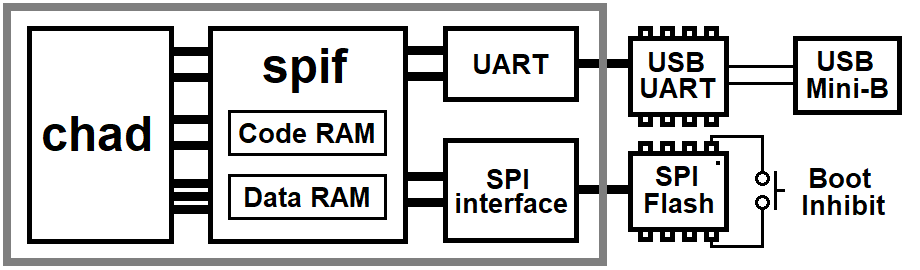
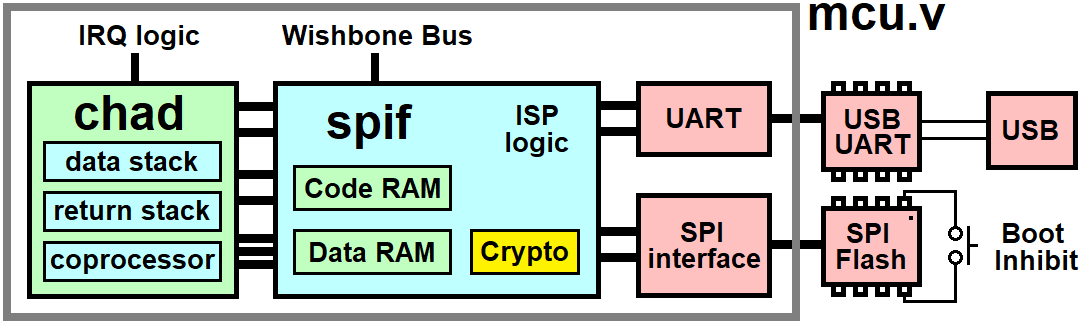
Tweaked docs

diff --git a/verilog/doc/spif.md b/verilog/doc/spif.md
@@ -42,7 +42,8 @@ Allows room for FPGA bitstream if used.
 
 ## Ports
 
-To keep the J1 naming conventions, the ports on the J1 side are:
+Let N be the cell size in bits, 16 to 32.
+To keep the J1 naming conventions, the ports on the processor side are:
 
 | Name     | Dir | Bits | Usage                           |
 |----------|:---:|-----:|---------------------------------|
@@ -51,9 +52,9 @@ To keep the J1 naming conventions, the ports on the J1 side are:
 | mem_addr | in  | 16   | Data memory address             |
 | mem_wr   | in  | 1    | Data memory write enable        |
 | mem_rd   | in  | 1    | Data memory read enable         |
-| din      | in  | 18   | Data memory (and I/O) in        |
-| mem_dout | out | 18   | Data memory out                 |
-| io_dout  | out | 18   | I/O data out                    |
+| din      | in  | N    | Data memory (and I/O) in        |
+| mem_dout | out | N    | Data memory out                 |
+| io_dout  | out | N    | I/O data out                    |
 | code_addr| in  | 16   | Code memory address             |
 | insn     | out | 16   | Code memory data                |
 | p_hold   | out | 1    | Processor hold                  |
@@ -200,6 +201,7 @@ since pages can be re-programmed in case of bad verification.
 
 A 'ping' command (0x42) sends 5 bytes out the UART:
 - BASEBLOCK, first 64KB sector of user flash
+- KEYID, identifies the boot code decryption key (0 = plaintext)
 - PRODUCT_ID0, product ID\[7:0]
 - PRODUCT_ID1, product ID\[15:8]
 - 0xAA, sanity check
@@ -212,10 +214,10 @@ Yup, numbers as free as air.
 If you want to reserve your PRODUCT_ID1 to avoid collision with other adopters
 of `chad`, add it to this list and do a pull request:
 
-### Reserved PRODUCT_ID1 values
+### Reserved PRODUCT_ID values
 
 - 0, Demonstration models for `chad`
-- 1 to 3, Reserved for Brad Eckert's commercial projects
+- 1 to 99, Reserved for Brad Eckert's commercial projects
 
 ## Boot Loader
 
@@ -270,7 +272,7 @@ Write:
 ### Jamming ISP bytes
 
 Bytes can be fed into the ISP interpreter by writing them to io\[4].
-This way of using the ISP lets you control the SPI flash directly to
+This way of using the ISP lets software control the SPI flash directly to
 execute flash commands. You can set up the DMA registers, start the command,
 and trigger a DMA memory load.
 
@@ -288,10 +290,10 @@ Since `cyc_o` is always the same as `stb_o`, it is not duplicated.
 
 ## Sample MCU
 
-The MCU in the `verilog` folder connects to SPI flash and a USB UART such as
-CH330N. A pushbutton can keep CS# high so the MCU bootloader sees a blank flash
-so that it doesn't try to boot up.
-The UART then has free reign over the SPI flash for programming it.
+The MCU in the `verilog` folder connects to SPI flash and a USB UART such as CH330N.
+If software somehow manages to disable the ISP, a shorting block or pushbutton can
+keep CS# high so the MCU bootloader sees a blank flash so that it doesn't try to
+boot up. The UART then has free reign over the SPI flash for programming it.
 
 Any synthesis tool will infer the RAMs, although some will
 warn you about possible simulation mismatch. Such problems occur if you try to

diff --git a/doc/interrupts.md b/doc/interrupts.md
@@ -1,11 +1,15 @@
 # Interrupts
 
+Interrupts are handled by modifying the return instruction.
+I call this method "lazy interrupts".
+
 IRQs in a lazy-interrupt system trade latency time for overhead.
 Since an interrupt only happens upon a return,
 registers (such as carry flags) are free to be trashed.
+Critical sections don't need interrupt disabling.
 There is no need to disable ISRs while they are being serviced because the next
 ISR won’t be serviced until the next return.
-Multiple interrupts are naturally chained, with the priority encoder deciding who’s next.
+Multiple interrupts are naturally chained, with a priority encoder deciding who’s next.
 
 An interrupt request is serviced by modifying the PC instead of popping it from
 the return stack. This avoids excess return stack usage, which is important in a system
@@ -24,10 +28,11 @@ awakened a cooperative task to handle clean-up so as not to burden the interrupt
 The same idea applies to lazy interrupts.
 Once the time-critical part of the interrupt is taken care of, you can call
 non-time-critical parts of the ISR whose return instructions service the interrupt system.
-Admittedly, this costs a little return stack, so you need to make sure there's enough to handle it.
+Admittedly, this costs a little return stack, so you need to make sure there's enough
+hardware stack to handle it.
 You could think of return instructions as an analog of Forth’s PAUSE.
 
-The maximum interrupt latency is easy enough to measure in HDL simulation.
+The maximum interrupt latency is easy enough to instrument in HDL simulation.
 A timer could track the maximum time between rising `irq` and `iack`.
 Since Forth executes `return` quite often, it's usually pretty low.
 
